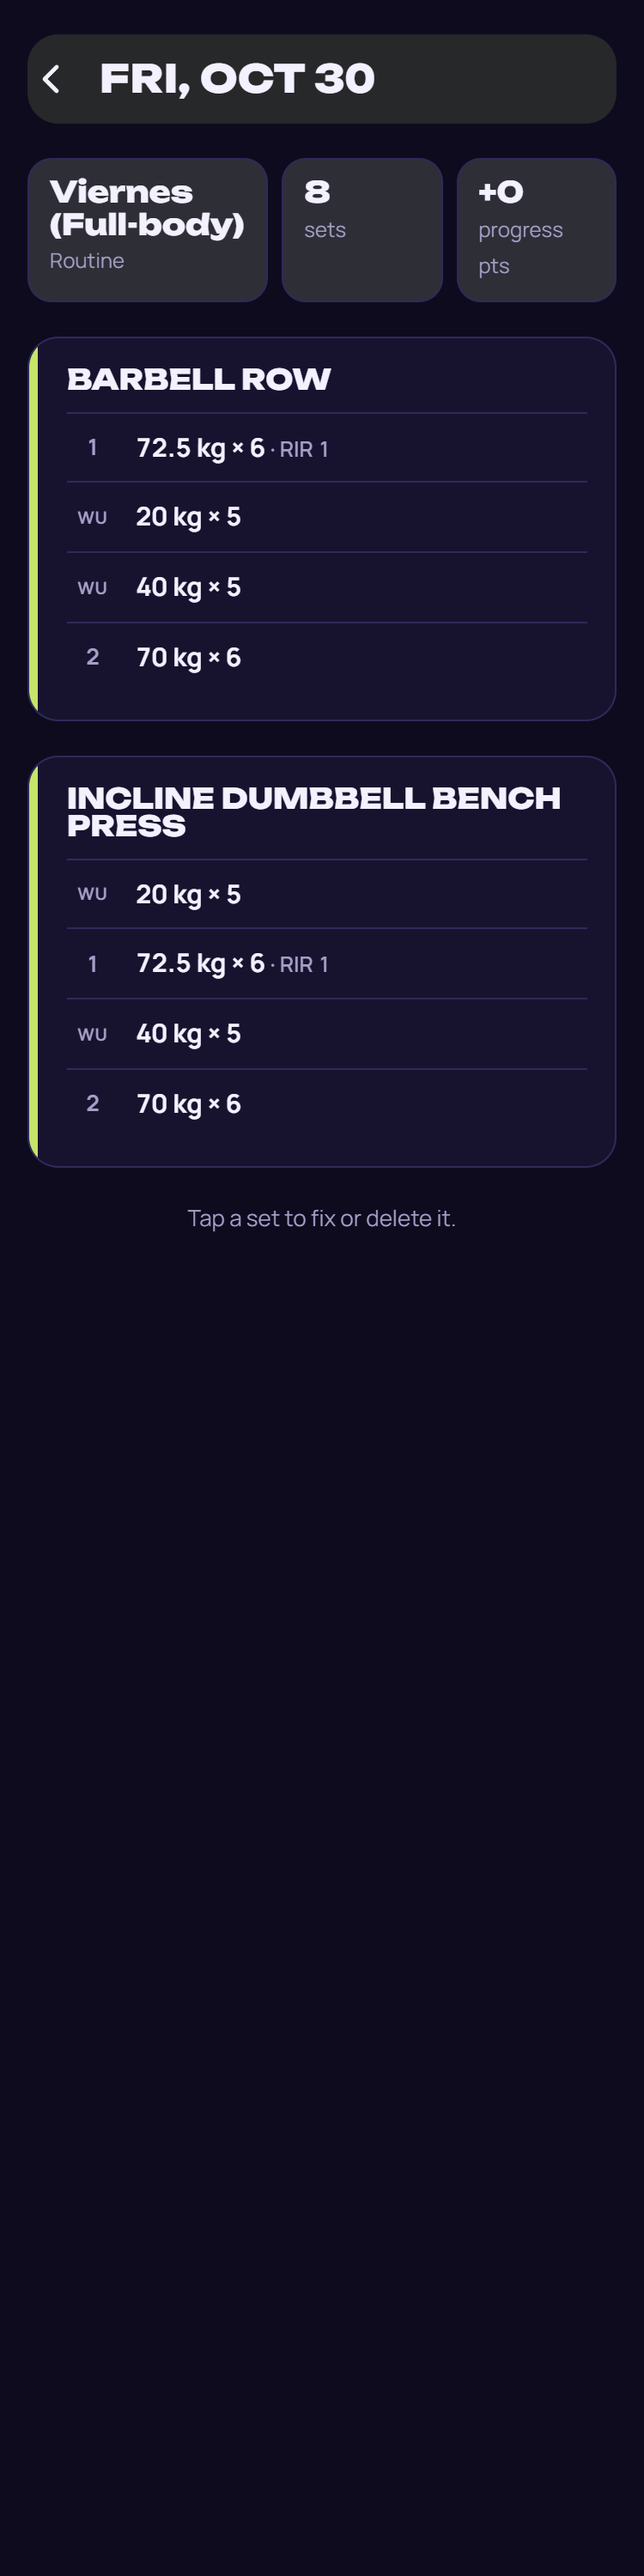
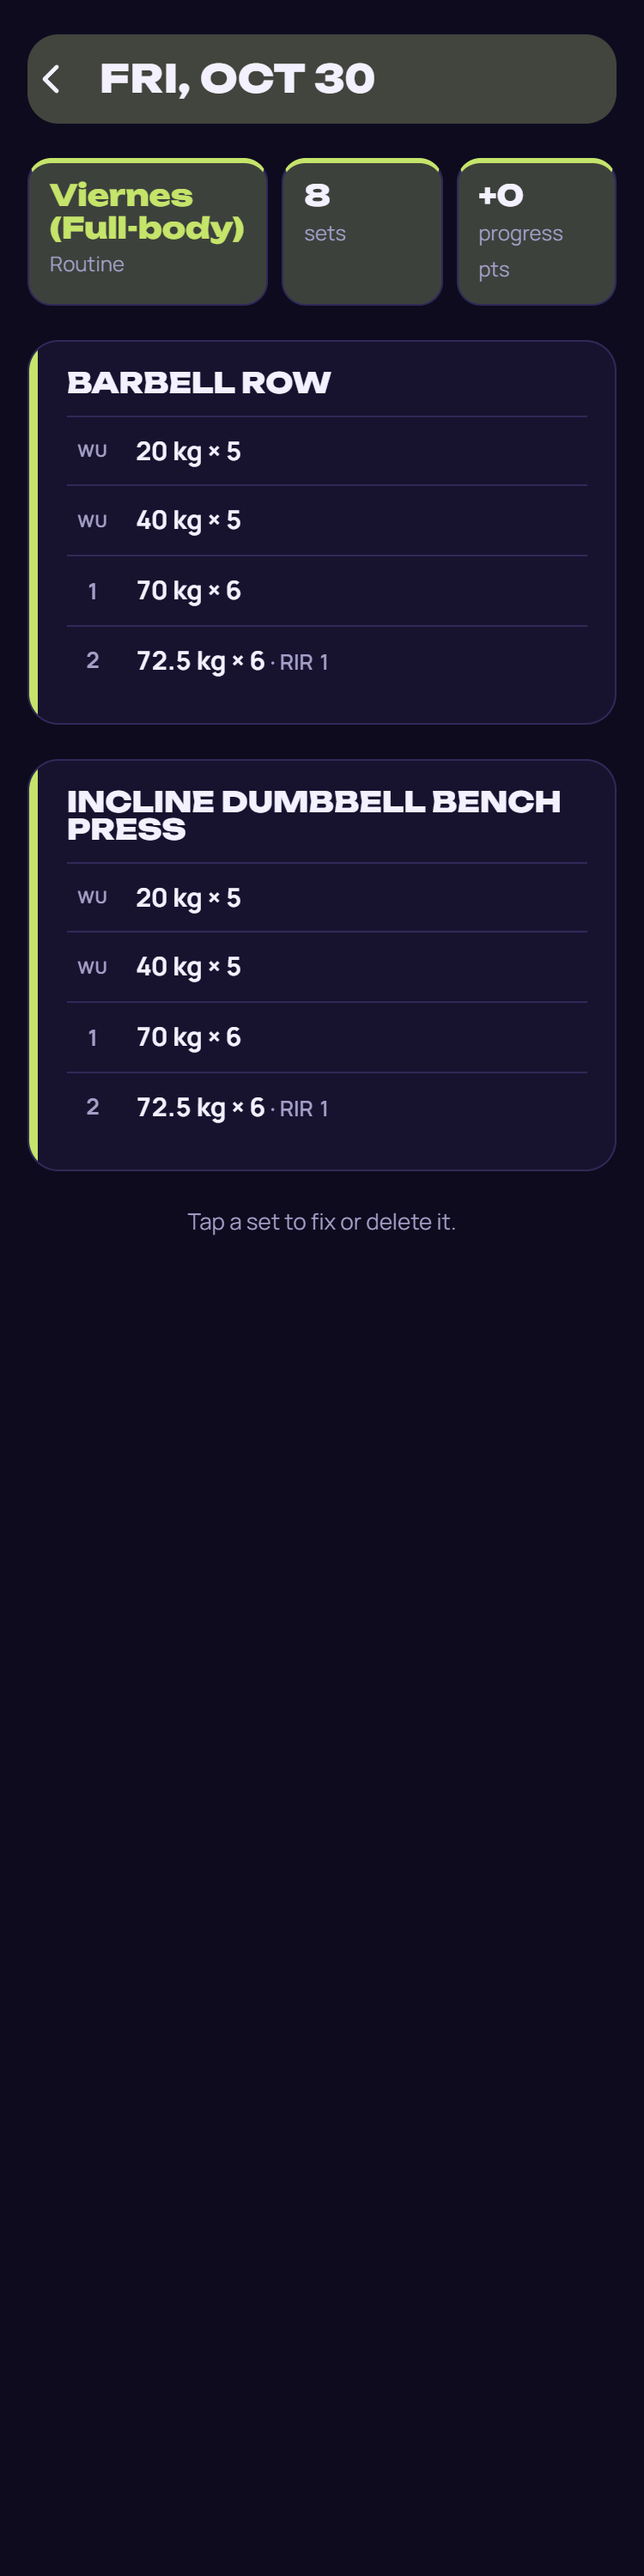
Session detail: stronger Day colour on the header band and tiles, Day name in the Day colour

diff --git a/app/src/styles.css b/app/src/styles.css
@@ -2224,12 +2224,16 @@ prefers-reduced-motion switches every animation off, so it stays off the badge. 
 /* A past Session carries its Routine Day's colour (--c): a tinted header band and tiles, a stripe on
    each Exercise card and on its row in History. A Session with no Day keeps the neutral look. */
 .subhead.tinted {
-  background: color-mix(in srgb, var(--c) 13%, transparent);
+  background: color-mix(in srgb, var(--c) 24%, var(--surface));
   border-radius: 18px;
   padding: 6px 12px 6px 4px;
 }
 .summary[style*='--c'] .stat {
-  background: color-mix(in srgb, var(--c) 13%, var(--surface));
+  background: color-mix(in srgb, var(--c) 22%, var(--surface));
+  border-top: 3px solid var(--c);
+}
+.summary[style*='--c'] .stat.day-name b {
+  color: var(--c);
 }
 .day-card {
   position: relative;
